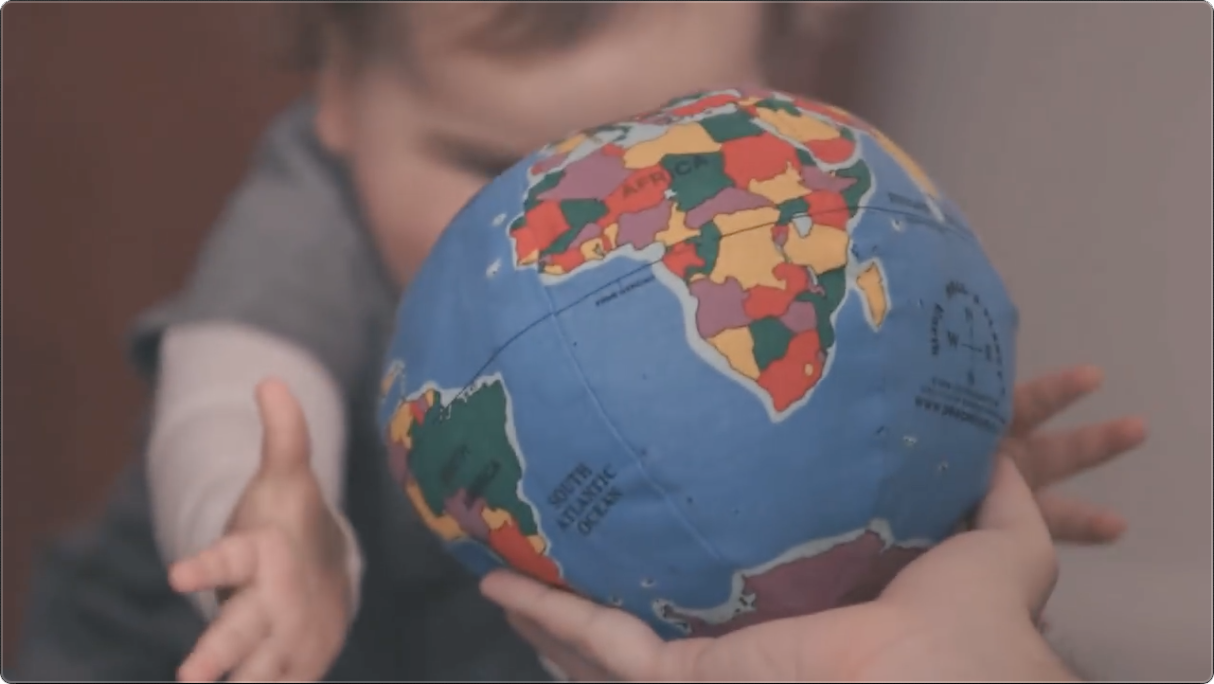
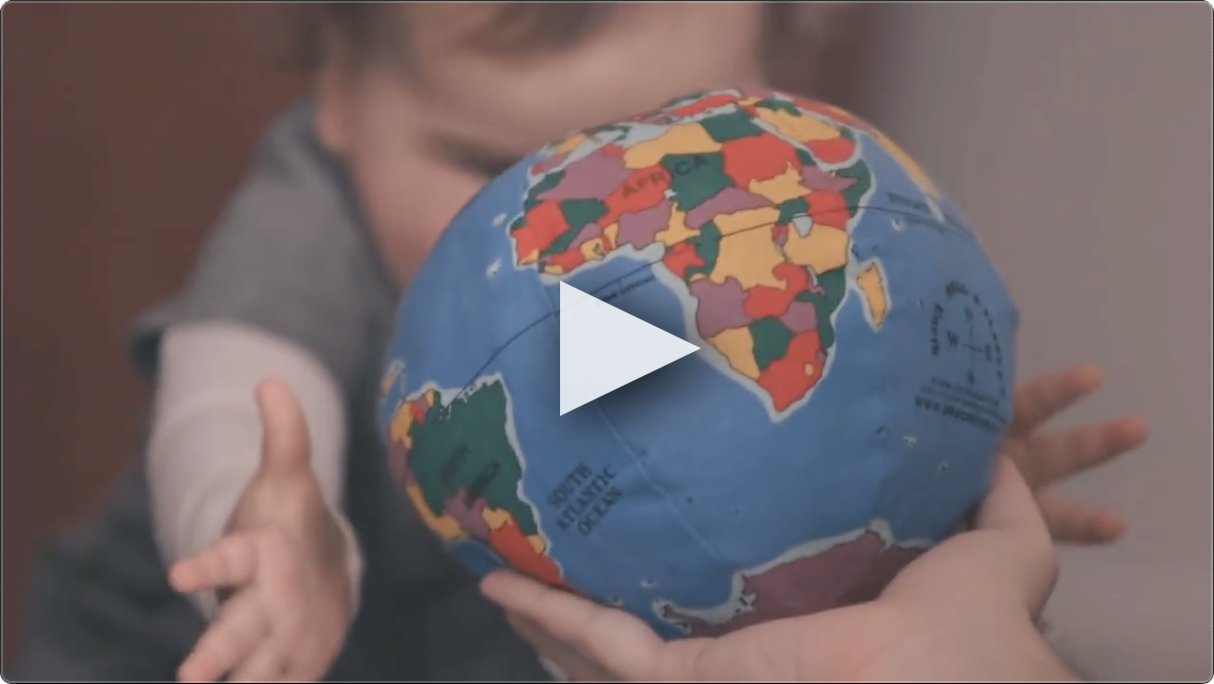
landing completed

Changed region(s): [[0.4267, 0.3991, 0.6096, 0.6447]]

diff --git a/imports/ui/templates/layout/url/landing/landing.js b/imports/ui/templates/layout/url/landing/landing.js
@@ -1,1 +1,48 @@
+import { Meteor } from 'meteor/meteor';
+import { Template } from 'meteor/templating';
+import { Session } from 'meteor/session';
+import { ReactiveVar } from 'meteor/reactive-var';
+
+import { promptLogin } from '/imports/ui/templates/components/collective/collective.js';
+
 import '/imports/ui/templates/layout/url/landing/landing.html';
+
+Template.team.onCreated(function () {
+  Template.instance().showVideo = new ReactiveVar(false);
+})
+
+Template.team.events({
+  'click #community-join'() {
+    event.stopPropagation();
+    promptLogin((!Session.get('user-login') || !Session.get('user-login').visible), event);
+  },
+  'click #hello-video'() {
+    const state = !Template.instance().showVideo.get();
+    Template.instance().showVideo.set(state);
+    if (state) {
+      if (Meteor.Device.isPhone()) {
+        document.getElementById('democracy-video').webkitEnterFullscreen();
+      }
+      document.getElementById('democracy-video').play();
+    }
+  },
+  'click #video-modal'() {
+    Template.instance().showVideo.set(false);
+    document.getElementById('democracy-video').pause();
+  },
+});
+
+Template.team.helpers({
+  showVideo() {
+    if (!Template.instance().showVideo.get()) {
+      return 'display: none';
+    }
+    return '';
+  },
+  modalVideo() {
+    if (!Template.instance().showVideo.get()) {
+      return 'display: none';
+    }
+    return 'opacity: 1; background-color:rgba(0, 0, 0, .8);';
+  },
+});

diff --git a/imports/ui/templates/layout/url/landing/landing.html b/imports/ui/templates/layout/url/landing/landing.html
@@ -45,11 +45,18 @@
 </template>
 
 <template name="team">
+  <div id="video-modal" class="w-clearfix modal" style="{{modalVideo}}">
+  </div>
+  <div class="landing-video" style="{{showVideo}}">
+    <video id="democracy-video" width="100%" height="auto" controls controlsList="nodownload" webkitallowfullscreen mozallowfullscreen allowFullScreen autoplay>
+      <source src="https://s3-us-west-2.amazonaws.com/democracyearth/landing/Liquid+Democracy+with+Santiago+Siri.mp4" type="video/mp4" />
+    </video>
+  </div>
   <div class="hero hero-secondary">
     <div class="landing-center">
       <h1 class='landing-sub landing-sub-big'>{{{_ 'community-title'}}}</h1>
       <div class="landing-map-menu">
-        <img class='paper-screenshot paper-video' src='/images/landing-community.png'>
+        <img id="hello-video" class='paper-screenshot paper-video' src='/images/landing-community.png'>
       </div>
       <div class="landing-sub-header">
         <div class="landing-sub-content">
@@ -58,7 +65,7 @@
       </div>
     </div>
     <div class="landing-button-menu">
-      <div class="button login-button button-landing not-mobile">
+      <div id="community-join" class="button login-button button-landing not-mobile">
         <img class="button-landing-icon" src="/images/proof-of-human.png">
         {{_ 'community-join'}}
       </div>

diff --git a/public/templates/sovereign/extra.css b/public/templates/sovereign/extra.css
@@ -477,6 +477,27 @@ body, h4, h1, h2 {
   text-decoration: none;
 }
 
+.landing-play-button {
+  width: 0; 
+  height: 0; 
+  border-top: 60px solid transparent;
+  border-bottom: 60px solid transparent;
+  border-left: 60px solid white;
+  margin-left: 290px;
+  position: absolute;
+  margin-top: 150px;
+}
+
+.landing-video {
+  z-index: 99999;
+  position: fixed;
+  width: 90%;
+  margin: 0 auto;
+  top: 10%;
+  left: 0%;
+  right: 0%;
+}
+
 .button-landing-icon {
   max-width: 24px;
   margin-right: 10px;
